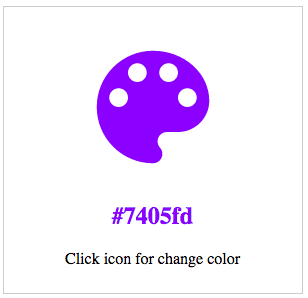
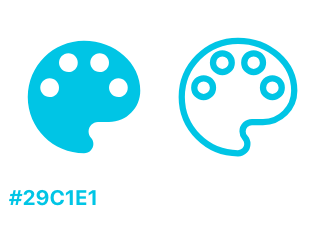
Add example fill & stroke

Changed region(s): [[0.0, 0.03, 0.9935, 0.9914], [0.3506, 0.691, 0.6429, 0.7811]]

diff --git a/README.md b/README.md
@@ -64,14 +64,14 @@ my-project
 <svg-filler path="static/github.svg"/>
 ```
 
-## Custom fill & size
+## Customize fill & size
 <img src="https://raw.githubusercontent.com/biigpongsatorn/vue-svg-filler/HEAD/static/example/ex2.png"/>
 
 ```html
 <svg-filler path="static/icon/bitcoin.svg" fill="#FF9900" width="50px" height="50px"/>
 ```
 
-## Click
+## Fill & stroke
 <img src="https://raw.githubusercontent.com/biigpongsatorn/vue-svg-filler/HEAD/static/example/ex3.png"/>
 
 ```html
